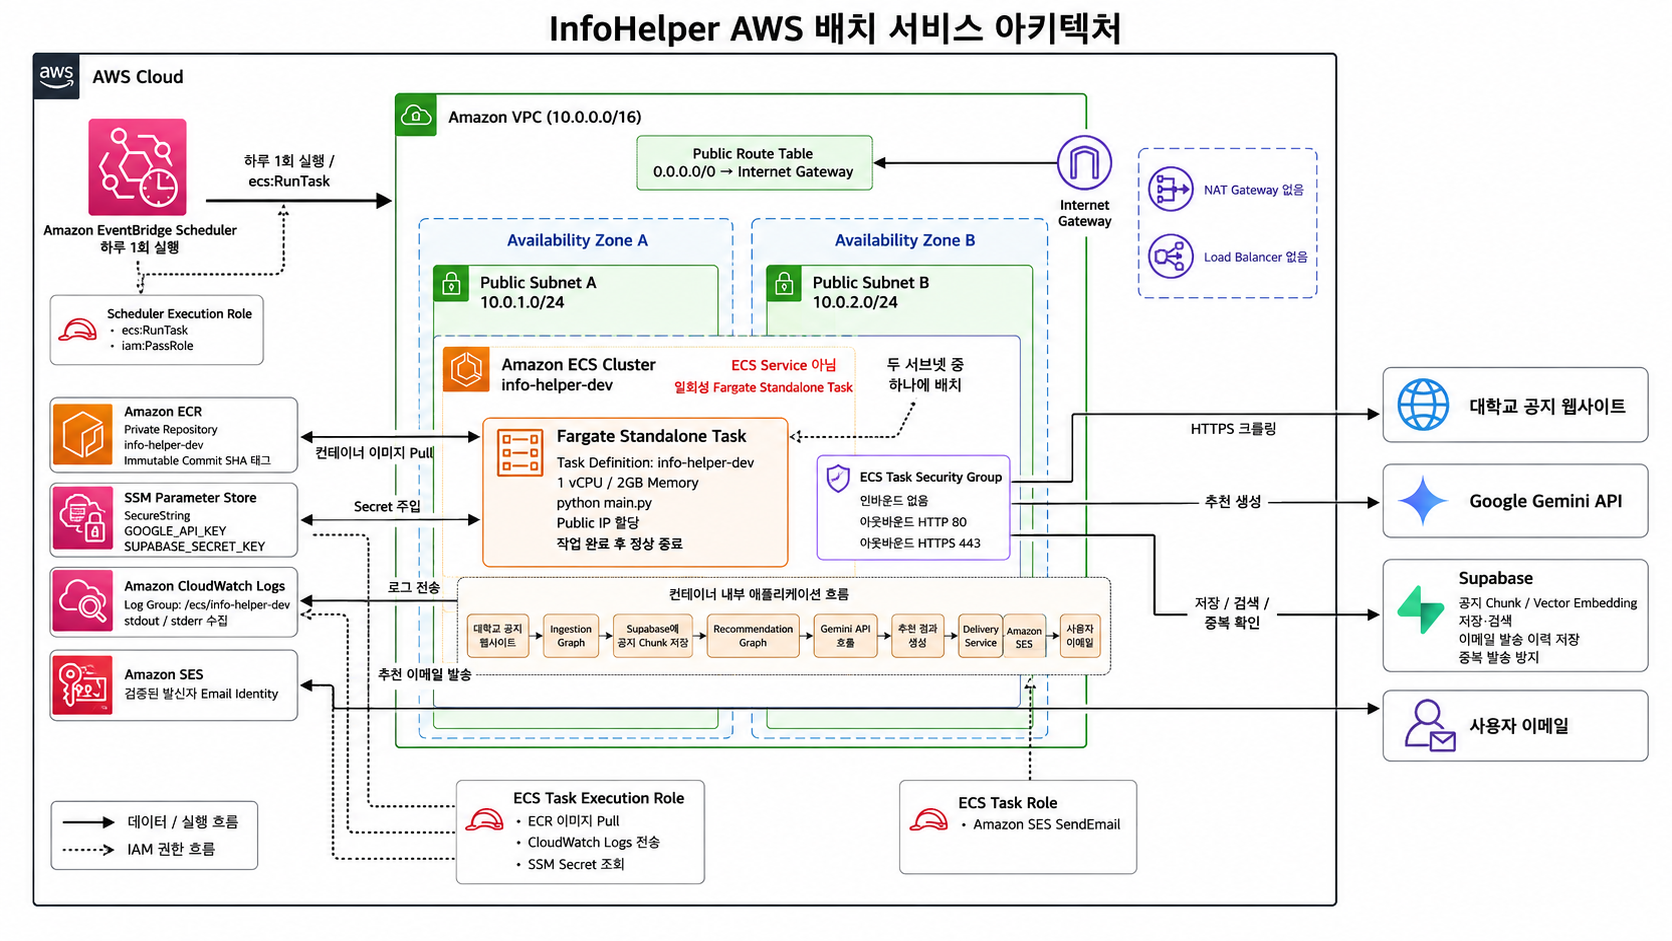
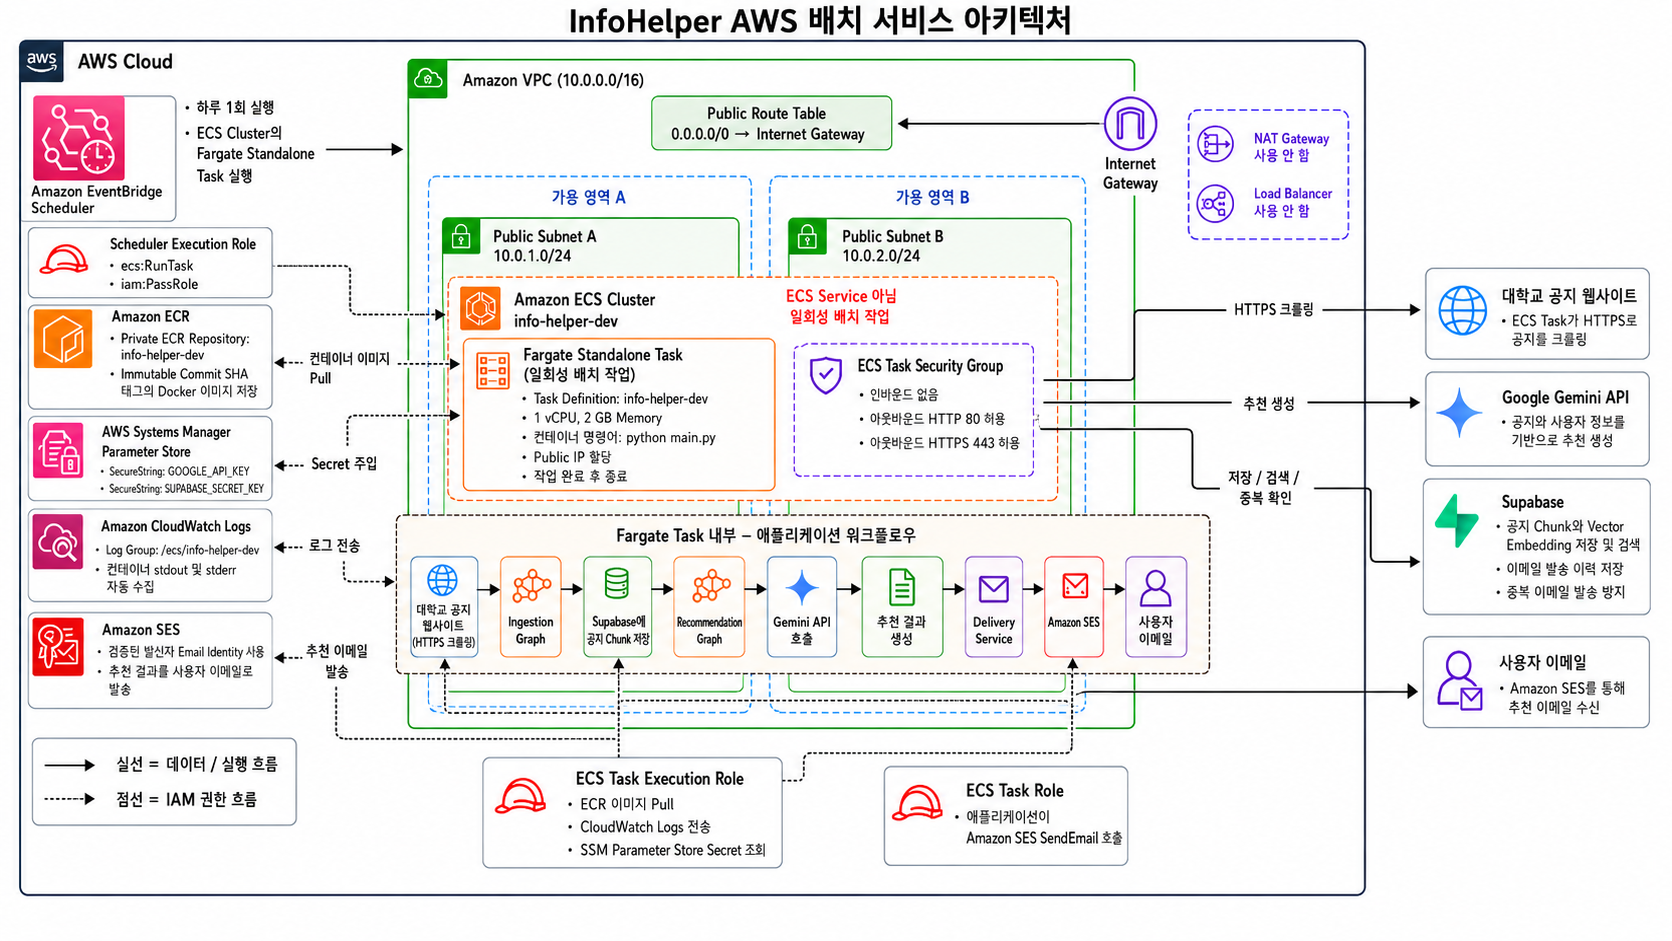
docs: AWS 아키텍처 및 작업 인계 갱신

Changed region(s): [[0.0, 0.0, 0.9952, 0.9862], [0.1866, 0.8629, 0.2177, 0.8937], [0.1555, 0.2774, 0.1866, 0.3082]]

diff --git a/docs/HANDOFF.md b/docs/HANDOFF.md
@@ -8,116 +8,129 @@
   - Docker에서 실제 SES 이메일 발송과 중복 발송 제외 검증 완료
 - [x] Supabase migration 관리 적용
   - 원격 스키마 baseline과 후속 migration 5개 적용
-  - backend의 `service_role` 전용 권한, 필수 컬럼 제약, HNSW 인덱스 구성
-- [x] Pulumi AWS 기본 인프라 배포
-  - Pulumi Cloud `dev` Stack과 `us-east-1` Provider 구성
-  - Private ECR `info-helper-dev` 구성
-    - `IMMUTABLE`, AES-256 암호화, `force_delete=False`
-  - 기존 SES v2 Email Identity Import 및 `protect=True` 적용
-  - VPC `10.0.0.0/16`, Internet Gateway 구성
-  - 서로 다른 가용영역의 Public Subnet 2개 구성
-  - Public Route Table과 `0.0.0.0/0 → Internet Gateway` Route 연결
-  - 인바운드 없음, HTTP·HTTPS 아웃바운드만 허용하는 ECS Task Security Group 구성
-- [x] ECS 실행 기반 리소스 배포
-  - ECS Cluster와 CloudWatch Log Group 구성
+  - backend `service_role` 전용 권한, 필수 컬럼 제약, HNSW 인덱스 구성
+- [x] Pulumi AWS 실행 인프라 배포
+  - Private ECR, SES v2 Email Identity, VPC, Internet Gateway 구성
+  - 서로 다른 가용영역의 Public Subnet 2개와 Public Route Table 구성
+  - 인바운드 없음, HTTP·HTTPS 아웃바운드만 허용하는 ECS Security Group 구성
+  - ECS Cluster, CloudWatch Log Group, Task Definition 구성
   - ECS Task Execution Role과 Task Role 분리
-  - Execution Role에 ECR Pull·CloudWatch Logs·SSM 조회 권한 연결
-  - Task Role에 SES `SendEmail` 최소 권한 연결
+  - SSM Parameter Store에 Google·Supabase Secret 저장
 - [x] Fargate용 Docker 이미지 ECR Push
   - 플랫폼: `linux/amd64`
   - ECR 태그: `a3d9b7ffe40b7b228c8b5de8ec2d8c57eea60d33`
   - Digest: `sha256:19de1df39ee40b079634b4246c3e742ea7d998c54439202c54fe696cff53e931`
-- [x] ECS Task Definition 배포 및 수동 실행 검증
-  - Fargate, `awsvpc`, Linux `X86_64`, 1 vCPU·2GB 메모리 설정
-  - ECR 이미지, SSM Secret, IAM Role, CloudWatch Logs 연결
-  - Public Subnet 2개, ECS Task Security Group, Public IP로 수동 실행
-  - 크롤링·Gemini·Supabase·SES 전체 흐름 정상 동작
+- [x] ECS Fargate 전체 실행 흐름 검증
+  - Public Subnet, ECS Security Group, Public IP로 수동 Task 실행
+  - 크롤링·Gemini·Supabase·SES 정상 동작
   - 컨테이너 `Exit code: 0`과 실제 이메일 수신 확인
-- [x] EventBridge Scheduler IaC 작성 및 배포
-  - Scheduler 전용 Execution Role 생성
-    - 신뢰 주체: `scheduler.amazonaws.com`
-    - 지정 Task Definition에 대한 `ecs:RunTask`
-    - ECS Execution Role과 Task Role에 대한 `iam:PassRole`
-  - ECS Fargate Target과 Public Subnet·Security Group·Public IP 연결
-  - Pulumi Stack version 12: Scheduler 관련 리소스 3개 생성, 기존 22개 unchanged
-  - Pulumi Stack version 13: Schedule 활성화 및 실행 시간 변경 성공
-  - 14:07 KST 예약 실행으로 ECS Fargate Task 자동 실행 정상 동작 확인
+- [x] EventBridge Scheduler 자동 실행 구성 및 검증
+  - Scheduler Execution Role에 `ecs:RunTask`, `iam:PassRole` 최소 권한 구성
+  - 매일 08:00 KST 실행: `cron(0 8 * * ? *)`, `Asia/Seoul`, `ENABLED`
+  - Scheduler가 ECS Fargate Task를 자동 생성·실행하는 흐름 확인
+- [x] GitHub Actions Workflow 코드 작성
+  - PR: Python 컴파일, 네트워크 요청 없는 테스트, Pulumi Preview 및 PR 댓글
+  - 배포: Feature 브랜치 `workflow_dispatch`, main 병합 Push에서 Pulumi Up
+  - 수동 실행은 main을 제외한 모든 브랜치에서만 허용
+  - 배포 동시 실행 방지와 PR별 오래된 실행 취소 적용
+- [x] GitHub AWS OIDC 인프라 작성 및 로컬 배포
+  - GitHub OIDC Provider 생성
+  - PR 전용 Preview Role: `ReadOnlyAccess`
+  - `dev` Environment 전용 Deploy Role: `ReadOnlyAccess`, `PowerUserAccess`
+  - Deploy Role의 `iam:PassRole` 대상을 ECS Task Role 2개와 Scheduler Role로 제한
+  - GitHub Role 자신은 수정할 수 없게 해 권한 자체 확장 방지
+  - Pulumi Cloud `dev` Stack version 15 배포 성공
+  - 신규 리소스 7개 생성, 기존 25개 unchanged, 총 32개 관리
+- [x] GitHub Actions/OIDC 코드 커밋
+  - `c811ff3 feat: GitHub Actions OIDC 인증 구성`
+  - `50ede91 feat: GitHub Actions 검증 및 배포 워크플로 구성`
 
 ## 진행 중인 작업
 
-- [ ] Scheduler 운영 실행 시간 변경 배포
-  - 코드 설정: `cron(0 8 * * ? *)`, `Asia/Seoul`, `ENABLED`
-  - 목표 실행 시간: 매일 08:00 KST
-  - 현재 상태: `infra/Pulumi.dev.yaml` 변경 완료, `pulumi up` 미실행
-  - 실제 AWS 배포 상태는 아직 매일 14:07 KST
+- [ ] GitHub Repository/Environment 설정
+  - Repository Variable `AWS_PREVIEW_ROLE_ARN` 등록 필요 여부 확인
+  - `dev` Environment와 Variable `AWS_DEPLOY_ROLE_ARN` 등록 필요 여부 확인
+  - Repository Secret `PULUMI_ACCESS_TOKEN` 등록 필요 여부 확인
+  - `dev` Environment의 Deployment branches는 All branches로 두고 Workflow 조건으로 main 수동 실행을 차단
+- [ ] GitHub Actions 실제 PR 검증
+  - PR에서 안전 테스트와 OIDC Preview Role 인증 확인
+  - Pulumi Preview 결과가 PR에 표시되는지 확인
+  - main 병합 후 Deploy Role로 Pulumi Up이 정상 동작하는지 확인
 - [ ] 추천 점수 품질 조정
   - 현재 최종 추천 기준은 연결 검증을 위해 `total_score >= 0.6`
   - 실제 추천 품질 검토 후 기준 또는 점수식 개선 필요
 
 ## 다음에 해야 할 작업
 
-1. Scheduler 운영 시간 변경을 Preview하고 배포한다.
+1. Conda 환경에서 배포 후 Preview를 다시 확인한다.
 
    ```bash
    conda activate infohelper
    export AWS_PROFILE=infohelper
-   aws sso login --profile infohelper
    cd infra
    pulumi preview
-   pulumi up
    ```
 
-2. EventBridge Scheduler Console에서 매일 08:00 KST 설정을 확인한다.
-3. 다음 예약 실행에서 ECS Task 생성과 `Exit code: 0`을 확인한다.
-4. Feature 브랜치를 Push하고 배포 MVP PR을 생성한다.
-5. 이후 GitHub Actions의 PR Preview·배포와 AWS OIDC 인증을 구성한다.
+   - 직전 Preview는 시스템 Python으로 실행되어 `ModuleNotFoundError: No module named 'pulumi'`로 실패함
+   - Pulumi 프로그램이나 AWS 리소스 오류가 아니라 Python 실행 환경 문제임
+   - 이미 실행한 정적 검사와 안전 테스트 23개는 통과함
+
+2. GitHub 설정값을 등록하거나 등록 상태를 확인한다.
+
+   ```bash
+   pulumi stack output github_preview_role_arn
+   pulumi stack output github_deploy_role_arn
+   ```
+
+   - Repository Variable: `AWS_PREVIEW_ROLE_ARN`
+   - `dev` Environment Variable: `AWS_DEPLOY_ROLE_ARN`
+   - Repository Secret: `PULUMI_ACCESS_TOKEN`
+
+3. PR Checks에서 Python 테스트와 Pulumi Preview 성공을 확인한다.
+4. 실패하면 Actions 로그를 기준으로 Workflow 또는 GitHub 설정을 수정한다.
+5. main 병합 후 `Dev Stack 배포` Workflow의 Pulumi Up 성공을 확인한다.
+6. 이후 Docker 이미지 빌드·Commit SHA 태깅·ECR Push 자동화를 별도 작업으로 진행한다.
 
 ## 주의사항
 
-- EventBridge Scheduler에는 현재 별도 DLQ를 구성하지 않음
-- Task Definition은 실행 설계도이며, 수동 실행 또는 Scheduler 호출이 있어야 컨테이너가 실행됨
-- 로컬 AWS 인증은 `AWS_PROFILE=infohelper`와 SSO를 사용하고 Access Key를 저장하지 않음
-- ECS 컨테이너에서는 로컬 SSO가 아니라 IAM Task Role을 사용함
+- `docs/images/infohelper_architecture.png`는 현재 AWS 배치 서비스 구조를 나타내는 최신 아키텍처 이미지임
+- GitHub OIDC 리소스와 GitHub Preview/Deploy Role의 권한 변경은 로컬 AWS SSO로 배포함
+- GitHub Deploy Role은 자신이나 Preview Role의 IAM 정책을 수정할 수 없음
+- `PowerUserAccess`는 IAM 외 AWS 서비스에 넓은 권한을 가지므로 Production 도입 시 Custom Policy로 축소 필요
+- GitHub OIDC는 AWS 인증만 해결하며 Pulumi Cloud 인증에는 현재 `PULUMI_ACCESS_TOKEN`이 별도로 필요함
+- Workflow의 `dev` Environment 때문에 Deploy Role Trust Policy의 `sub`는 `repo:otteru/InfoHelper:environment:dev`임
+- PR Preview Role Trust Policy의 `sub`는 `repo:otteru/InfoHelper:pull_request`임
+- `pulumi preview`와 `pulumi up`은 반드시 `infohelper` Conda 환경에서 실행함
+- 로컬 AWS 인증은 `AWS_PROFILE=infohelper`와 SSO를 사용하며 Access Key를 저장하지 않음
 - `.env`, API Key, Supabase Secret Key, AWS 인증정보를 출력하거나 커밋하지 않음
-- `Pulumi.dev.yaml`의 Secret 값은 Pulumi 암호문 상태를 유지해야 함
-- ECR은 `IMMUTABLE`이므로 같은 태그를 새로운 이미지에 다시 Push할 수 없음
-- Dockerfile이나 애플리케이션 코드가 바뀌면 이미지를 다시 빌드·Push하고 `imageTag`를 새 Commit SHA로 변경해야 함
-- SES Identity의 Pulumi 논리 이름 `sender_identity`를 변경하지 않음
-- SES Identity는 `protect=True`이므로 의도하지 않은 삭제·교체를 피해야 함
-- SSM Secret은 ECS Task **Execution Role**이 Task 시작 전에 조회함
-- SES 호출은 컨테이너 애플리케이션이 ECS Task **Task Role**로 수행함
-- Scheduler Execution Role은 `ecs:RunTask`와 두 ECS Role에 대한 `iam:PassRole`을 사용함
+- `Pulumi.dev.yaml`의 Secret 값은 Pulumi 암호문 상태를 유지함
+- ECR은 `IMMUTABLE`이므로 같은 태그를 새 이미지로 덮어쓸 수 없음
+- Dockerfile이나 애플리케이션 코드가 바뀌면 이미지 재빌드·Push와 `imageTag` 갱신이 필요함
 - `main.py` 실행은 실제 크롤링·Gemini·Supabase·SES 요청을 발생시킴
-- `data/userInfo.md`가 Docker 이미지에 포함되므로 ECR을 Private으로 유지하고 개인정보 취급에 주의
-- Supabase 적용 완료 migration은 수정하지 않고 새 migration을 추가함
-- `supabase db reset --linked`는 원격 DB를 초기화할 수 있으므로 실행하지 않음
 - `test/mvp1/requests_test.py`는 import 시 실제 네트워크 요청을 실행하므로 전체 `pytest` 실행을 피함
 - 프로젝트 규칙상 `main`/`master` 브랜치에 직접 Push하지 않음
 
 ## 관련 파일
 
-- `infra/__main__.py` - Pulumi 설정 로딩과 전체 리소스 조립
-- `infra/network.py` - VPC, Public Subnet, Route, Security Group
-- `infra/iam.py` - ECS Role과 Scheduler Execution Role 및 IAM 정책
+- `.github/workflows/pr-check.yml` - PR 정적 검사·테스트·Pulumi Preview
+- `.github/workflows/pulumi-deploy.yml` - Feature 수동 배포와 main 동기화
+- `infra/github_oidc.py` - GitHub OIDC Provider와 Preview/Deploy Role
+- `infra/__main__.py` - GitHub OIDC 리소스 조립과 Stack Output
+- `infra/Pulumi.dev.yaml` - GitHub Repository·Environment와 dev Stack 설정
+- `infra/iam.py` - ECS와 Scheduler IAM Role
 - `infra/ecs.py` - ECS Cluster, Log Group, Task Definition
-- `infra/scheduler.py` - EventBridge Scheduler와 ECS Fargate Target 설정
-- `infra/ssm_parameters.py` - SSM `SecureString` Parameter
-- `infra/Pulumi.dev.yaml` - `dev` Stack 설정과 암호화된 Secret
-- `Dockerfile` - Python 3.12·Chromium 기반 실행 이미지
-- `main.py` - 실제 배치 실행 진입점
-- `delivery/` - 이메일 생성·SES 발송·중복 발송 방지
-- `supabase/migrations/` - 원격 DB 스키마 migration
+- `infra/scheduler.py` - EventBridge Scheduler와 ECS Fargate Target
 - `docs/HANDOFF.md` - 현재 작업 인계 문서
 
 ## 마지막 상태
 
-- 브랜치: `feat/deployment-setup`
-- 마지막 기능 커밋: `cd87dde feat: EventBridge Scheduler 자동 실행 구성`
-- 원격 상태: `origin/feat/deployment-setup`보다 로컬 커밋이 앞서며 아직 Push하지 않음
-- Pulumi Cloud `dev` Stack: version 13 배포 성공, 총 25개 리소스 관리
-- 실제 EventBridge Schedule: `info-helper-dev-daily`, `ENABLED`, 매일 14:07 KST
-- 로컬 운영 시간 설정: 매일 08:00 KST, 아직 `pulumi up` 미실행
-- 자동 실행 상태: 14:07 예약 호출로 ECS Fargate Task 자동 실행 정상 동작 확인
-- 정적 검증: Python 컴파일과 `git diff --check` 통과
-- 린트·타입 검사: 현재 `infohelper` 환경에 `ruff`, `mypy` 미설치
-- 다음 세션 시작 문구: `docs/HANDOFF.md 읽고 Scheduler 08:00 운영 시간 배포부터 이어서 진행해줘`
+- 브랜치: `feat/github-actions`
+- HEAD: `50ede91 feat: GitHub Actions 검증 및 배포 워크플로 구성`
+- 원격 상태: `origin/feat/github-actions`보다 로컬이 2커밋 앞섬
+- 문서 변경: `docs/HANDOFF.md`, `docs/images/infohelper_architecture.png` 커밋 예정
+- Pulumi Cloud `dev` Stack: version 15 배포 성공, 32개 리소스 관리
+- 정적 검증: Python 컴파일, Workflow YAML 파싱, 공백 검사 통과
+- 테스트: 네트워크 요청 없는 테스트 `23 passed`
+- 마지막 Preview: 시스템 Python에 Pulumi SDK가 없어 실패, Conda 환경에서 재실행 필요
+- 커밋 상태: OIDC와 Workflow 커밋 완료
+- 다음 세션 시작 문구: `docs/HANDOFF.md 읽고 Conda 환경 Pulumi Preview와 GitHub 설정 확인부터 이어서 진행해줘`
